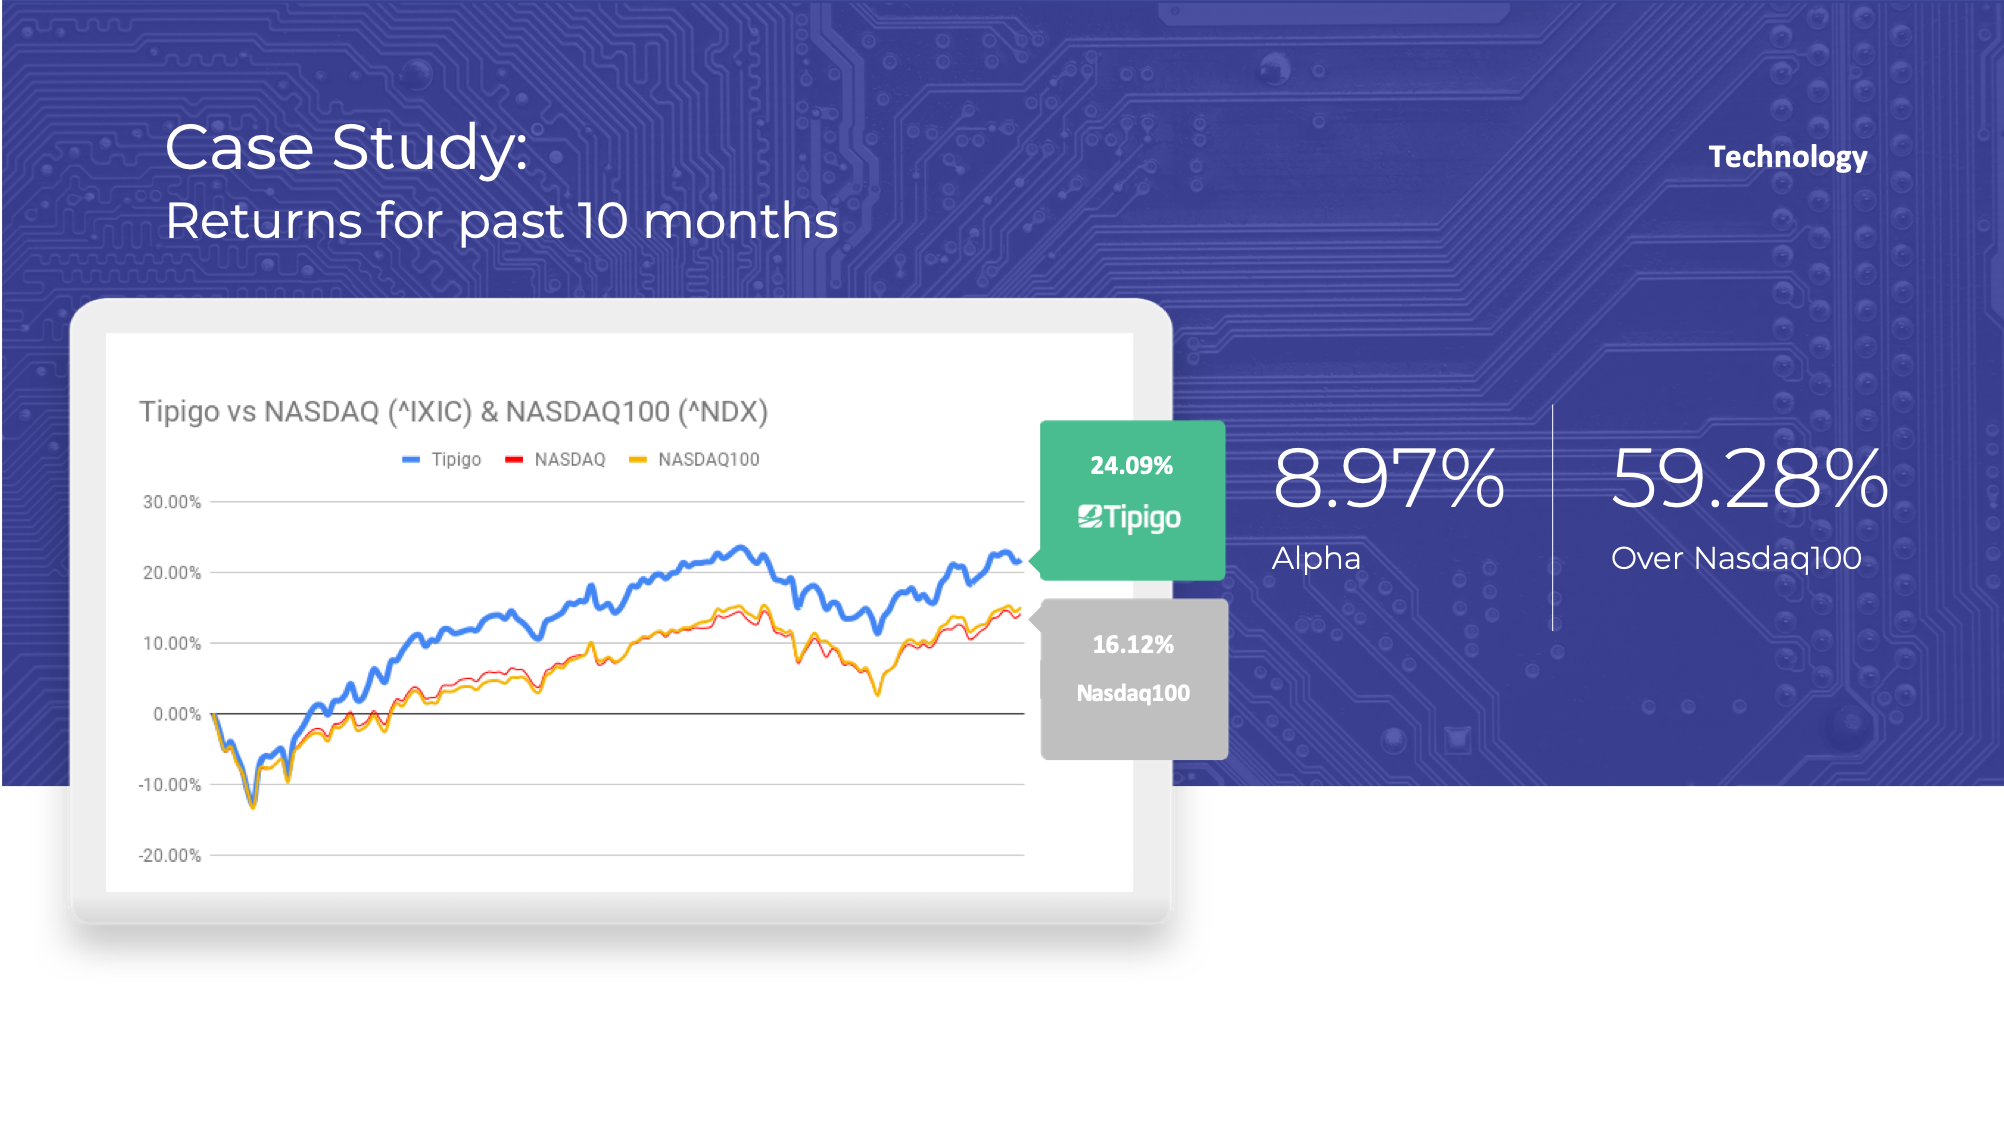
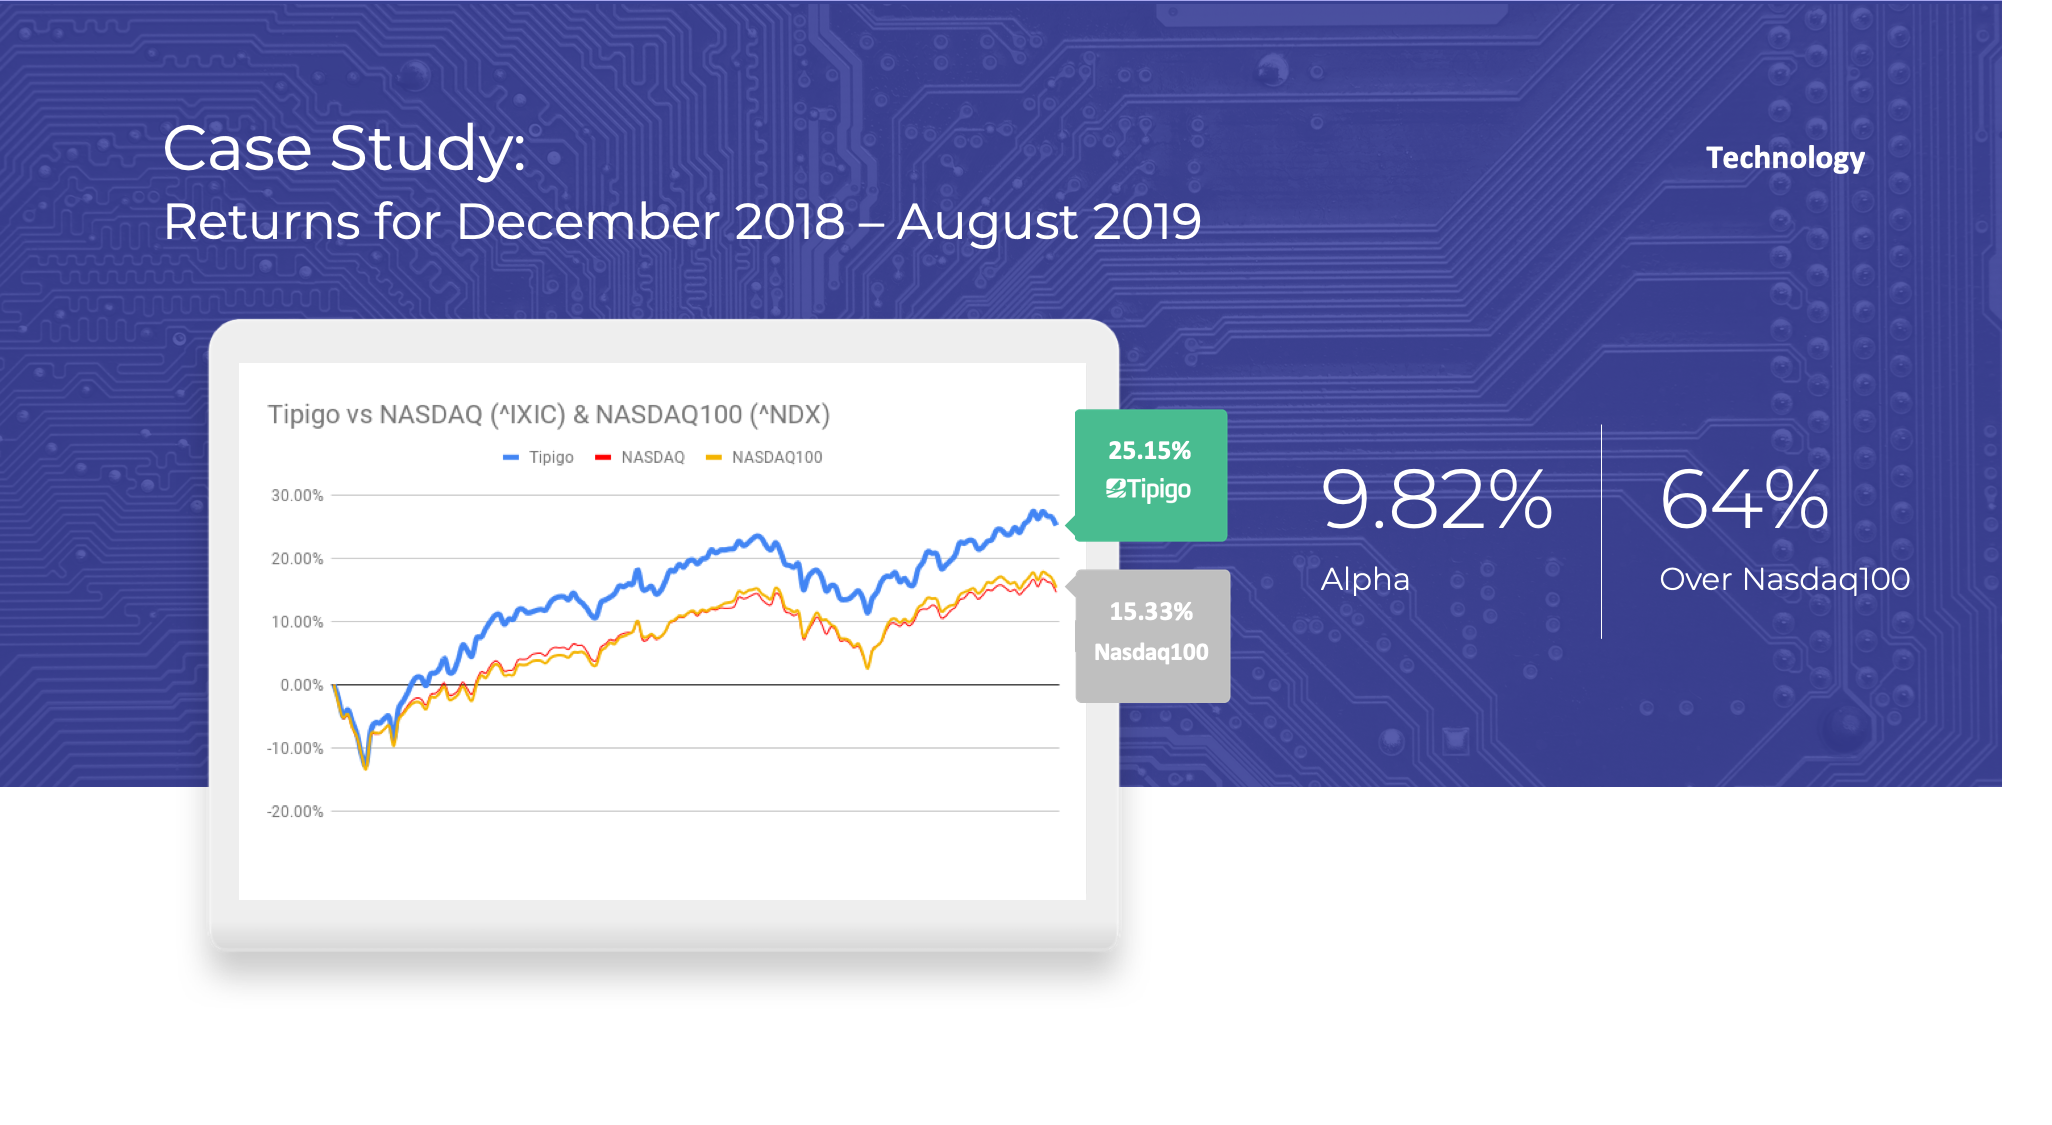
added slider

diff --git a/views/index.html b/views/index.html
@@ -9,13 +9,13 @@
 	<meta name="viewport" content="width=device-width, initial-scale=1">
 
 	<!--title-->
-	<title>Tipigo - Fundamentally Different</title>
+	<title>Tipigo - Alpha as a Service</title>
 
 	<meta property="og:title" content="Tipigo - Fundamentally Different" />
 	<meta property="description"
-		content="Tipigo provides the first Virtual Research Team, derived from the best performing analysts the equity world has to offer in real time - all the time." />
+		content="Tipigo harnesses the power of professional equity analysts, synthesizing big data and human expertise to build tailored stock portfolios that have been proven to outperform the market." />
 	<meta property="og:description"
-		content="Tipigo provides the first Virtual Research Team, derived from the best performing analysts the equity world has to offer in real time - all the time." />
+		content="Tipigo harnesses the power of professional equity analysts, synthesizing big data and human expertise to build tailored stock portfolios that have been proven to outperform the market." />
 	<meta property="og:image" itemprop="image"
 		content="https://s3.amazonaws.com/tipigo.prod/images/preview-tipigo.png" />
 	<meta property="og:url" content="http://www.tipigo.com/" />
@@ -180,10 +180,28 @@
 							</div>
 						</div>
 					</div>
-
-					<div class="faq-img">
-						<img src="img/techperformance.png" class="img-responsive" alt="faq image">
-					</div>
+					<div class="col-md-12">
+                            <div class="pt-100 hero-content-slider hero-content owl-carousel owl-theme white-indicator">
+                                <div class="item">
+                                    <div class="hero-content">
+                                        <h1>Case study 1: Technology sector</h1>
+                                        <p>A diverse portfolio allocated from Tech equities and managed dynamically to outperform the Nasdaq100 index</p>
+                                        <div class="faq-img">
+												<img src="img/techperformance.png" class="img-responsive" alt="faq image">
+											</div>
+                                    </div>
+                                </div>
+                                <div class="item">
+                                    <div class="hero-content">
+                                        <h1>Case study 2: Healthcare sector</h1>
+                                        <p>A diverse, low volatility portfolio allocated from HC equities and managed dynamically to outperform the XLV ETF</p>                                        <div class="faq-img">
+												<img src="img/hcperformance.png" class="img-responsive" alt="faq image">
+											</div>
+                                    </div>
+                                </div>
+                            </div>
+                        </div>
+					
 
 					<!-- <div class="row">
 						<div class="col-md-12">

diff --git a/views/css/style.css b/views/css/style.css
@@ -1230,7 +1230,7 @@ SECTION MARGIN
 }
 
 .white-indicator.owl-theme .owl-nav [class*=owl-] {
-    background: rgba(134, 151, 145, 0.22);
+    background: rgba(58, 63, 143, 0.7);
     color: #fff;
     margin: 2px;
 }
